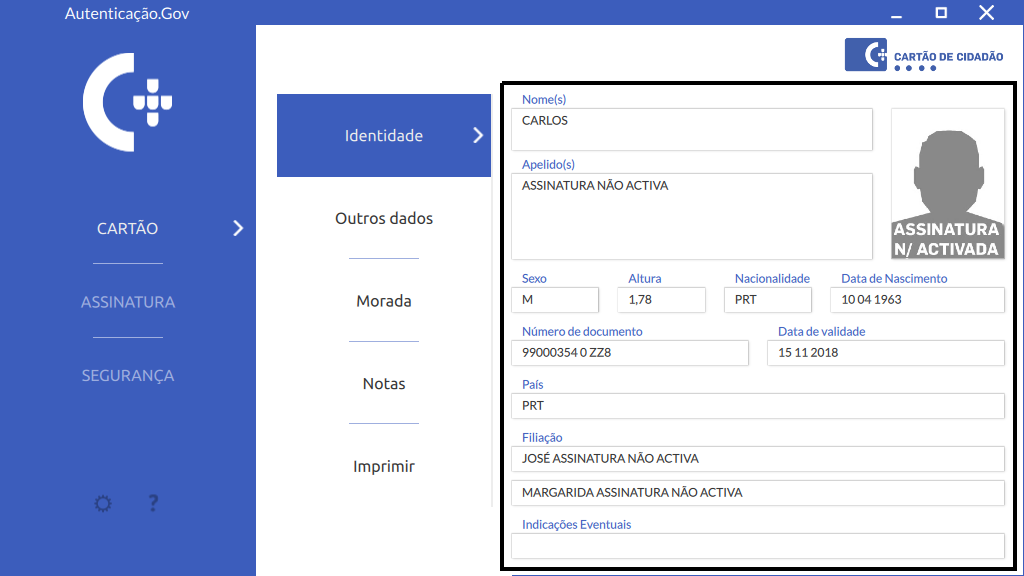
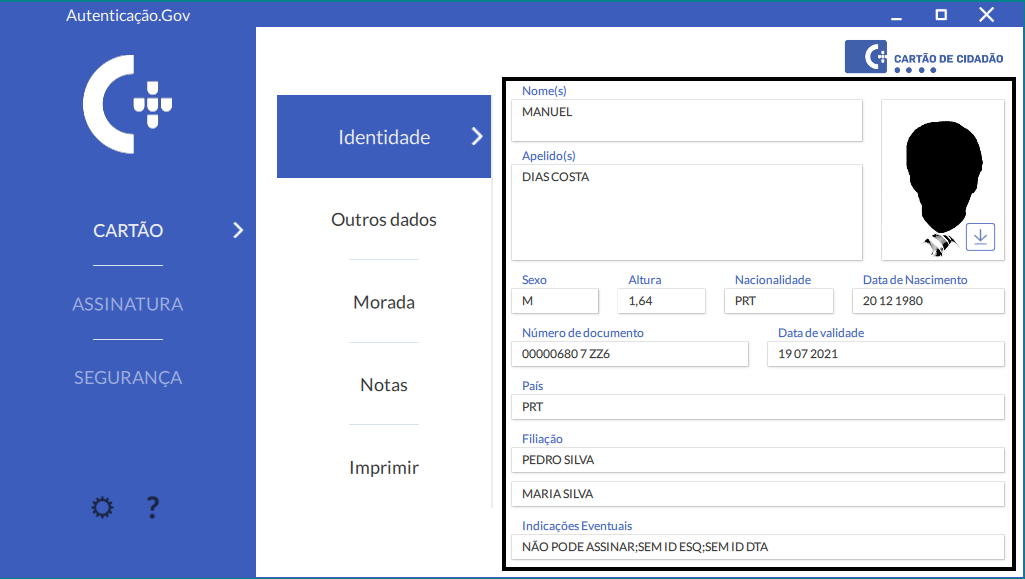
Update user manual images to show export citizen photo option

diff --git a/user_manual.md b/user_manual.md
@@ -433,12 +433,13 @@ principais: Menu Cartão, Menu Assinatura e Menu Segurança.
 
 Permite visualizar a informação de identidade e foto do cidadão,
 visualizar a morada do cidadão e confirmar a alteração de morada, edição
-das notas, bem como imprimir os dados do Cartão de Cidadão.
+das notas, bem como imprimir os dados do Cartão de Cidadão. A foto do cidadão
+pode ser exportada para um ficheiro.
 
 #### Identidade
 
 Permite visualizar os dados de identificação e foto do cidadão presentes
-no Cartão de Cidadão.
+no Cartão de Cidadão. Através desta página é ainda possível exportar foto do cidadão.
 
 ![Ilustração: Identidade do Cidadão](Pictures/Autenticacao.Gov_Identidade.png "Identidade do Cidadão"){:.center}
 
